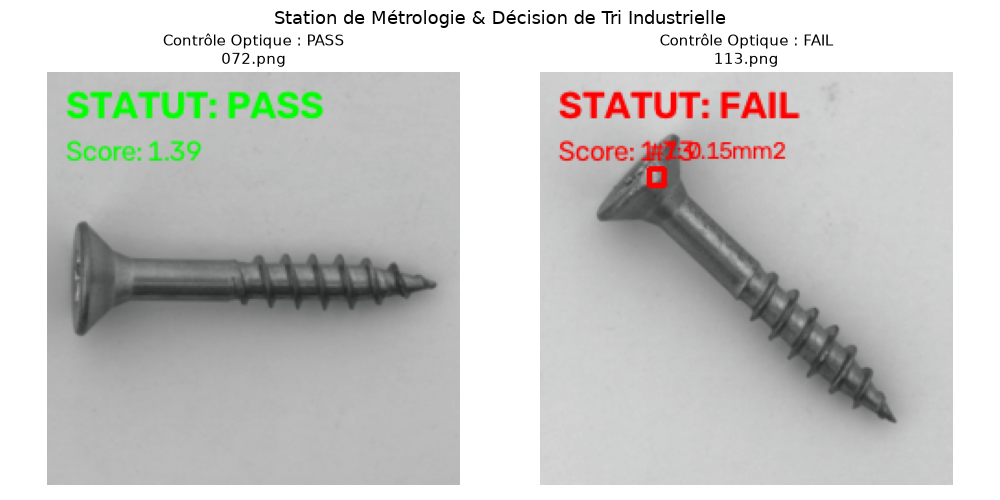
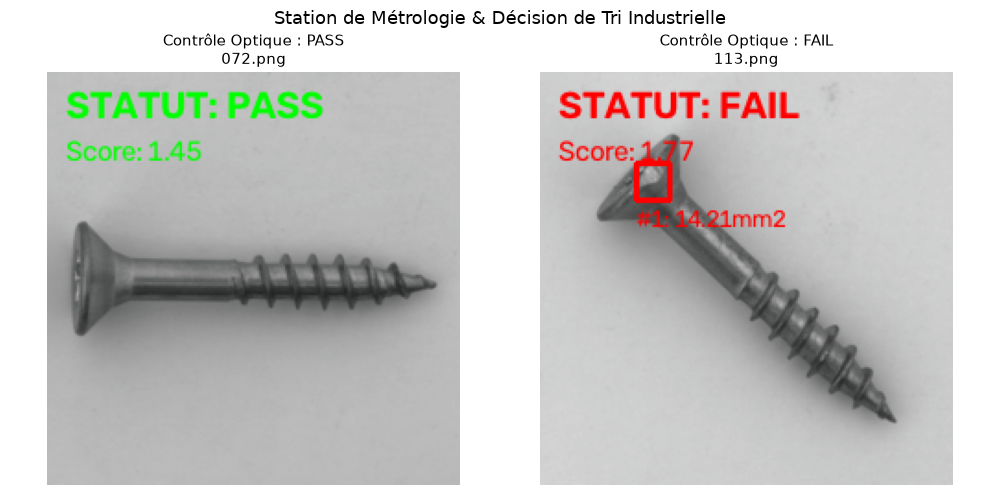
fix: avoid HUD text overlap and refresh inspection screenshot with corrected metrology

Changed region(s): [[0.62, 0.27, 0.806, 0.48], [0.155, 0.27, 0.217, 0.33]]

diff --git a/src/inspector.py b/src/inspector.py
@@ -111,7 +111,7 @@ class OpticalInspector:
             for d in defects:
                 x, y, w, h = d.bbox
                 cv2.rectangle(annotated, (x, y), (x + w, y + h), (0, 0, 255), 2)
-                cv2.putText(annotated, f"#{d.defect_id}: {d.area_mm2:.2f}mm2", (x, max(15, y - 5)), cv2.FONT_HERSHEY_SIMPLEX, 0.45, (0, 0, 255), 1, cv2.LINE_AA)
+                cv2.putText(annotated, f"#{d.defect_id}: {d.area_mm2:.2f}mm2", (x, y - 5 if y > 60 else y + h + 15), cv2.FONT_HERSHEY_SIMPLEX, 0.45, (0, 0, 255), 1, cv2.LINE_AA)
 
         return InspectionResult(
             decision=decision,
